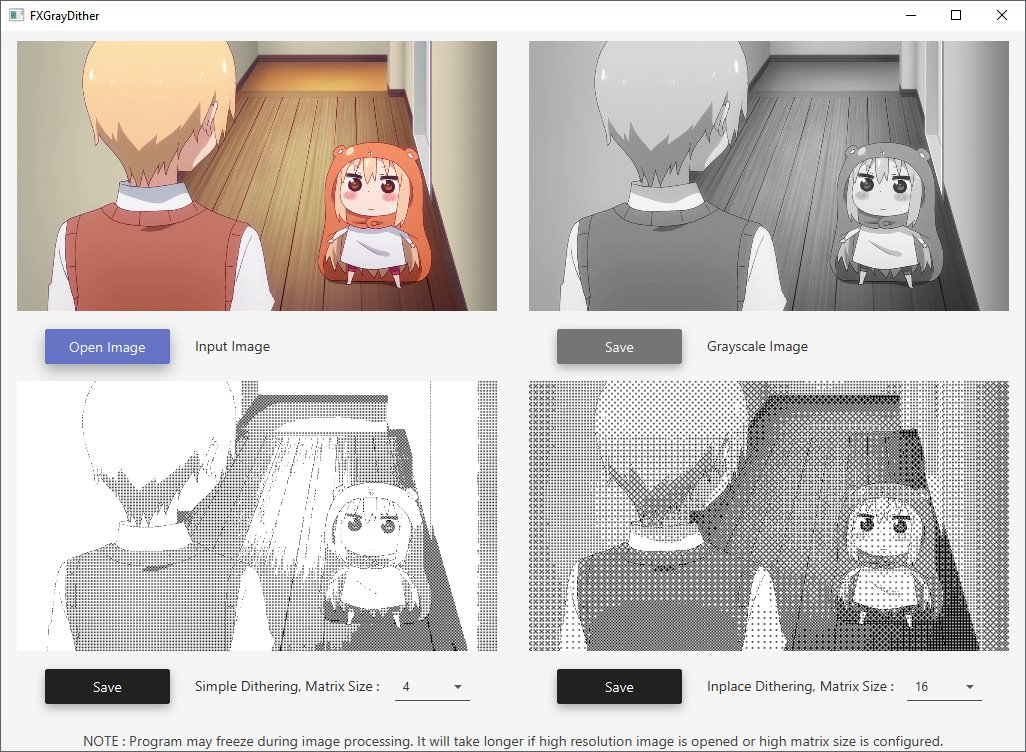
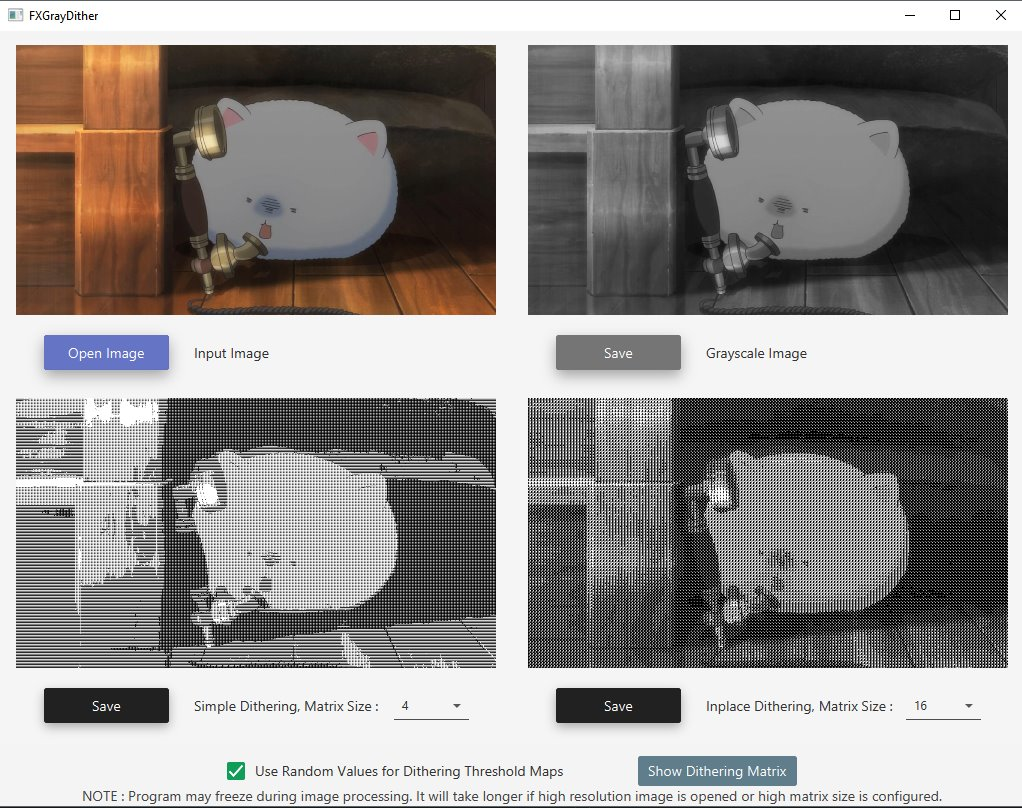
dithering matrix rearrangement functions and report completed

diff --git a/Assignment1/src/Controller.java b/Assignment1/src/Controller.java
@@ -1,8 +1,10 @@
 import com.jfoenix.controls.JFXButton;
+import com.jfoenix.controls.JFXCheckBox;
 import com.jfoenix.controls.JFXComboBox;
 import javafx.beans.value.ChangeListener;
 import javafx.beans.value.ObservableValue;
 import javafx.fxml.FXML;
+import javafx.scene.control.Alert;
 import javafx.scene.image.Image;
 import javafx.scene.image.ImageView;
 import javafx.scene.layout.VBox;
@@ -25,8 +27,8 @@ public class Controller {
         grayscaleVBox.disableProperty().setValue(true);
         simpleDitheringVBox.disableProperty().setValue(true);
         inplaceDitheringVBox.disableProperty().setValue(true);
-        simpleDitheringCombobox.getItems().addAll(4,9,16,64);
-        inplaceDitheringCombobox.getItems().addAll(4,9,16,64);
+        simpleDitheringCombobox.getItems().addAll(4, 9, 16, 64);
+        inplaceDitheringCombobox.getItems().addAll(4, 9, 16, 64);
 
         openImageButton.setOnMouseClicked(e -> {
             FileChooser filechooser = new FileChooser();
@@ -55,34 +57,50 @@ public class Controller {
             }
         });
 
-        saveGrayscaleImageButton.setOnMouseClicked(e->{
+        saveGrayscaleImageButton.setOnMouseClicked(e -> {
             FileChooser fileChooser = new FileChooser();
             fileChooser.getExtensionFilters().add(new FileChooser.ExtensionFilter("JPEG Images (*.jpeg, *.jpg)", "*.jpg"));
             File saveFile = fileChooser.showSaveDialog(null);
-            if(saveFile != null){
+            if (saveFile != null) {
                 grayLevelProcessor.saveImage(saveFile.getAbsolutePath());
             }
         });
 
-        saveSimpleDitheringImageButton.setOnMouseClicked(e->{
+        saveSimpleDitheringImageButton.setOnMouseClicked(e -> {
             FileChooser fileChooser = new FileChooser();
             fileChooser.getExtensionFilters().add(new FileChooser.ExtensionFilter("JPEG Images (*.jpeg, *.jpg)", "*.jpg"));
             File saveFile = fileChooser.showSaveDialog(null);
-            if(saveFile != null){
+            if (saveFile != null) {
                 simpleDitherProcessor.saveImage(saveFile.getAbsolutePath());
             }
         });
 
-        saveInplaceDitheringButton.setOnMouseClicked(e->{
+        saveInplaceDitheringButton.setOnMouseClicked(e -> {
             FileChooser fileChooser = new FileChooser();
             fileChooser.getExtensionFilters().add(new FileChooser.ExtensionFilter("JPEG Images (*.jpeg, *.jpg)", "*.jpg"));
             File saveFile = fileChooser.showSaveDialog(null);
-            if(saveFile != null){
+            if (saveFile != null) {
                 inplaceDitherProcessor.saveImage(saveFile.getAbsolutePath());
             }
         });
-    }
 
+        randomMatrixCheckBox.selectedProperty().addListener(new ChangeListener<Boolean>() {
+            @Override
+            public void changed(ObservableValue<? extends Boolean> observable, Boolean oldValue, Boolean newValue) {
+                applySimpleDitheringMatrixSize();
+                applyInplaceDitheringMatrixSize();
+            }
+        });
+
+        showDitheringMatrixButton.setOnMouseClicked(e -> {
+            Alert alert = new Alert(Alert.AlertType.INFORMATION);
+            alert.setTitle("FXGrayDither");
+            alert.setHeaderText("Dithering Matrices (Threshold Maps) Information");
+            alert.setContentText("Simple Dithering: " + simpleDitherProcessor.getDitheringMatrixString() +
+            "\nInplace Dithering: "+ inplaceDitherProcessor.getDitheringMatrixString());
+            alert.showAndWait();
+        });
+    }
 
     private void initImages() {
         inputImageLoader = new InputImageLoader(path);
@@ -105,6 +123,11 @@ public class Controller {
         simpleDitheringMatrixSize = simpleDitheringCombobox.getValue();
         simpleDitherProcessor = new SimpleDitherProcessor(grayLevelProcessor.getMat());
         simpleDitherProcessor.setDitheringMatrixSize(simpleDitheringMatrixSize);
+        if (randomMatrixCheckBox.isSelected()) {
+            simpleDitherProcessor.setRandomFlag(true);
+        } else {
+            simpleDitherProcessor.setRandomFlag(false);
+        }
         simpleDitherProcessor.doProcess();
         simpleDitheringImage.setImage(simpleDitherProcessor.getJavafxImage());
     }
@@ -113,19 +136,13 @@ public class Controller {
         inplaceDitheringMatrixSize = inplaceDitheringCombobox.getValue();
         inplaceDitherProcessor = new InplaceDitherProcessor(grayLevelProcessor.getMat());
         inplaceDitherProcessor.setDitheringMatrixSize(inplaceDitheringMatrixSize);
+        if (randomMatrixCheckBox.isSelected()) {
+            inplaceDitherProcessor.setRandomFlag(true);
+        } else {
+            inplaceDitherProcessor.setRandomFlag(false);
+        }
         inplaceDitherProcessor.doProcess();
         inplaceDitheringImage.setImage(inplaceDitherProcessor.getJavafxImage());
-    }
-
-    private String createImagePath(File file) {
-        String os = System.getProperty("os.name"),
-                newPath;
-        if (os.contains("Win") || os.contains("win")) {
-            newPath = "file:/" + file.getPath().replace("\\", "/");
-        } else {
-            newPath = "file:" + file.getPath();
-        }
-        return newPath;
     }
 
     @FXML
@@ -167,4 +184,9 @@ public class Controller {
     @FXML
     private JFXComboBox<Integer> inplaceDitheringCombobox;
 
+    @FXML
+    private JFXCheckBox randomMatrixCheckBox;
+
+    @FXML
+    private JFXButton showDitheringMatrixButton;
 }

diff --git a/Assignment1/src/DitheringProcessor.java b/Assignment1/src/DitheringProcessor.java
@@ -1,8 +1,9 @@
-public class DitheringProcessor extends ImageHolder implements ImageProcessor{
+public class DitheringProcessor extends ImageHolder implements ImageProcessor {
     protected boolean alreadyProcessed;
     protected int ditheringMatrixSize = 0;
     protected int ditheringMatrixSqrt;
     protected int ditheringMatrix[][];
+    protected boolean randomDitherMatrix = false;
 
     @Override
     public void doProcess() {
@@ -15,6 +16,10 @@ public class DitheringProcessor extends ImageHolder implements ImageProcessor{
     }
 
     protected void setDitherMatrix() {
+        if (randomDitherMatrix) {
+            setRandomDitherMatrix();
+            return;
+        }
         switch (ditheringMatrixSize) {
             case 4:
                 ditheringMatrix = new int[][]{{0, 2}, {3, 1}};
@@ -36,8 +41,55 @@ public class DitheringProcessor extends ImageHolder implements ImageProcessor{
         }
     }
 
+    protected void setRandomDitherMatrix() {
+        ditheringMatrix = new int[ditheringMatrixSqrt][ditheringMatrixSqrt];
+
+        for (int i = 0; i < ditheringMatrixSqrt; ++i) {
+            for (int j = 0; j < ditheringMatrixSqrt; ++j) {
+                boolean repetitionFlag = false;
+                do {
+                    ditheringMatrix[i][j] = (int) (Math.random() * ditheringMatrixSize + 1);
+                    repetitionFlag = checkRepetition(i, j, repetitionFlag);
+                } while (repetitionFlag);
+            }
+        }
+
+        for (int i = 0; i < ditheringMatrixSqrt; ++i) {
+            for (int j = 0; j < ditheringMatrixSqrt; ++j) {
+                --ditheringMatrix[i][j];
+            }
+        }
+    }
+
+    public void setRandomFlag(boolean flag) {
+        randomDitherMatrix = flag;
+    }
+
+    private boolean checkRepetition(int i, int j, boolean repetitionFlag) {
+        repetitionFlag = false;
+        for (int k = 0; k <= i; ++k) {
+            for (int m = 0; m < ditheringMatrixSqrt && !(k == i && m == j); ++m) {
+                if (ditheringMatrix[i][j] == ditheringMatrix[k][m])
+                    repetitionFlag = true;
+            }
+        }
+        return repetitionFlag;
+    }
+
     public void setDitheringMatrixSize(int ditheringMatrixSize) {
         this.ditheringMatrixSize = ditheringMatrixSize;
-        this.ditheringMatrixSqrt = (int)Math.sqrt(ditheringMatrixSize);
+        this.ditheringMatrixSqrt = (int) Math.sqrt(ditheringMatrixSize);
+    }
+
+    public String getDitheringMatrixString() {
+        StringBuilder stringBuilder = new StringBuilder(((Integer) ditheringMatrixSqrt).toString() + " x " +
+                ((Integer) ditheringMatrixSqrt).toString() + " Matrix\n");
+        for(int i = 0; i < ditheringMatrixSqrt; ++i){
+            for(int j = 0; j < ditheringMatrixSqrt; ++j){
+                stringBuilder.append(((Integer)ditheringMatrix[i][j]).toString() + " ");
+            }
+            stringBuilder.append("\n");
+        }
+        return stringBuilder.toString();
     }
 }

diff --git a/Assignment1/src/Main.java b/Assignment1/src/Main.java
@@ -18,7 +18,7 @@ public class Main extends Application {
         Controller controller = fxmlLoader.getController();
         controller.init();
         primaryStage.setTitle("FXGrayDither");
-        primaryStage.setScene(new Scene(root, 1024, 720));
+        primaryStage.setScene(new Scene(root, 1024, 775));
         primaryStage.show();
     }
 }
